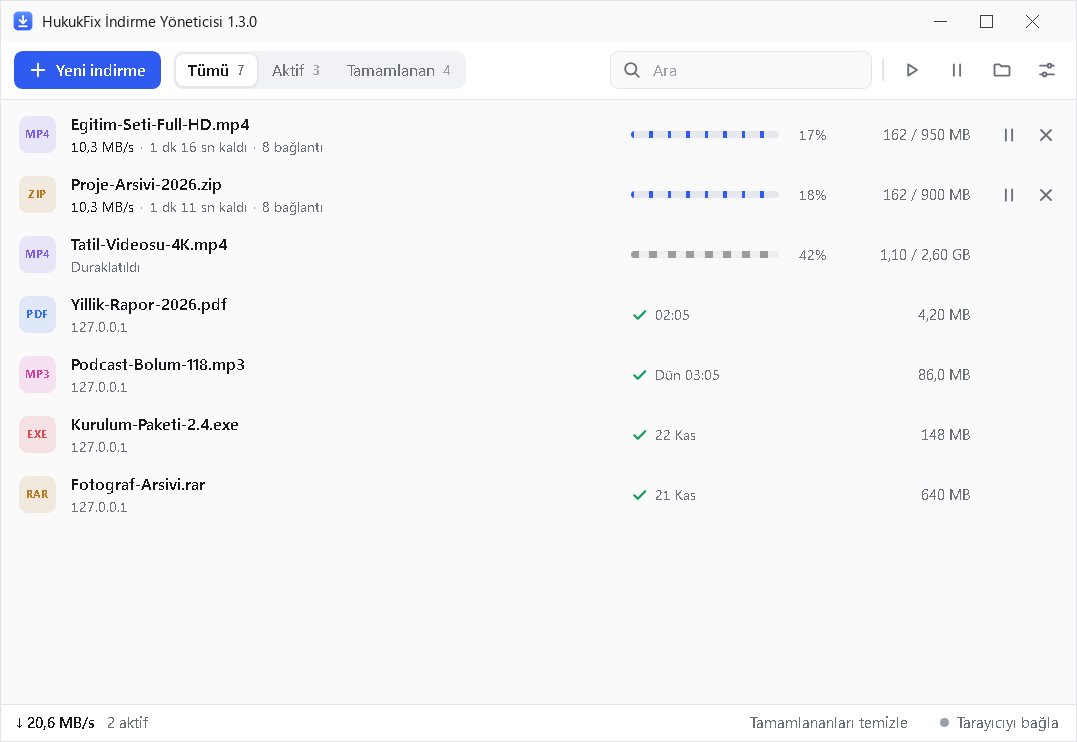
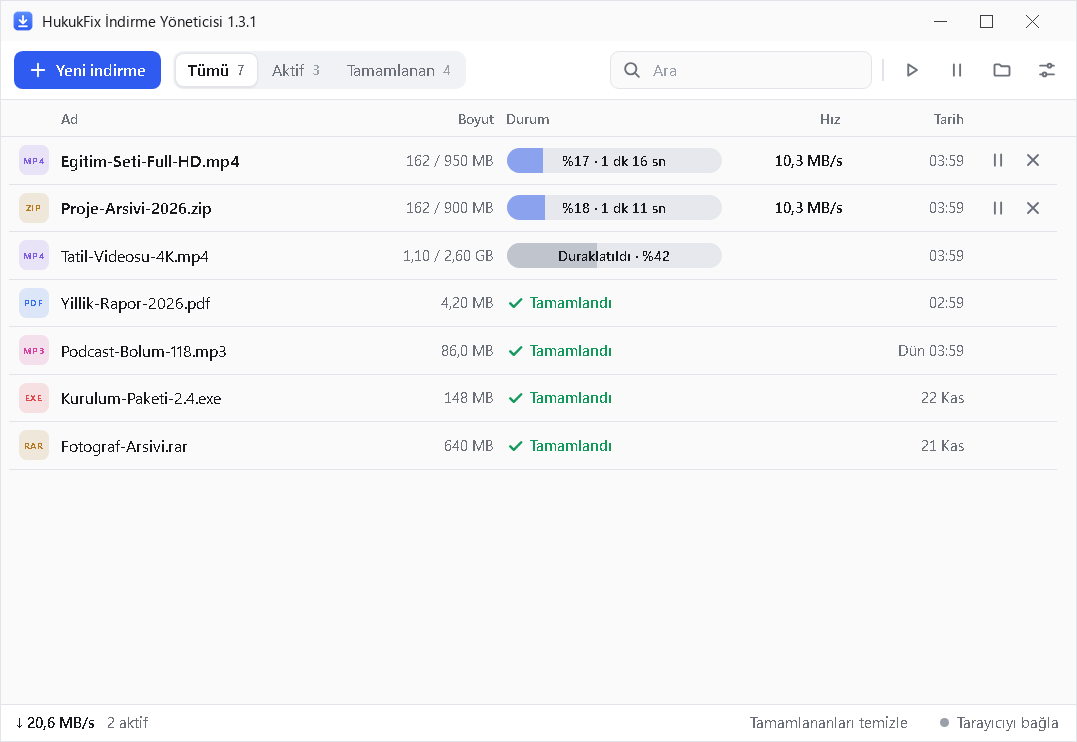
1.3.1: İndirme listesi başlıklı tablo
1.3.0'daki liste dağınık okunuyordu:
- dosya adı ile sağdaki sütunlar arasında koca bir boşluk vardı;
- başlık olmadığı için sayıların ne olduğu belli değildi;
- çok bağlantılı ilerleme çubuğu kesik çizgi gibi görünüyordu;
- biten indirmede yalnız "✓ 02:05" yazıyordu.

Liste şimdi IDM kullanıcılarının alışık olduğu biçimde, başlıklı bir tablo:
- Sütunlar: Ad · Boyut · Durum · Hız · Tarih (#thead). Her indirme 38 px'lik
  tek satır, satırlar ince çizgiyle ayrılıyor.
- Durum, yazıyı içinde taşıyan bir çubuk:
  - "%17 · 1 dk 16 sn";
  - "Duraklatıldı · %42";
  - "Bağlanıyor…" (belirsiz dolum).
  Yüzde Türkçede önde ("%17"), İngilizcede sonda.
- Çubuk göstermeyen durumlar:
  - biten: yeşil "✓ Tamamlandı";
  - bekleyen: "Sırada";
  - hata veren: kısa bir neden ("Erişim reddedildi", "Disk dolu"…), tam
    açıklama araç ipucunda.
- Hız yalnız inen satırda yazıyor. Tarih, bitende bitiş, ötekilerde eklenme
  tarihi. Adın araç ipucunda bağlantı ve tarih var.
- Dar pencerede (≤760 px) Tarih sütunu gizleniyor.
- README ekran görüntüsü yenilendi.

Uçtan uca test 149 adım. Yeni adımlar:
- sütun başlıkları;
- inen satırda Türkçe yüzde ve hız;
- biten satırda onaylı "Tamamlandı";
- boş listede başlığın gizlenmesi.

Eklenti uyarısı denetiminin bekleme süresi 8 sn'ye çıktı (ilk açılışta WebView
profili kurulurken sayfa geç yüklenebiliyor). Test betiğine tanı bilgisi ve
HFDM_E2E_SADECE=kurulum ile yalnız kurulum bölümü kipi eklendi.

diff --git a/frontend/dist/app.js b/frontend/dist/app.js
@@ -148,22 +148,15 @@ function createRow(id) {
   const el = document.createElement('div');
   el.className = 'row';
   el.dataset.id = id;
-  el.innerHTML = '<div class="tile"></div><div class="body"><span class="name"></span><div class="meta"></div></div>' +
-    '<div class="pcol"><div class="prog" hidden></div><span class="pct"></span><span class="st" hidden></span></div><div class="size"></div><div class="acts"></div>';
+  el.innerHTML = '<div class="tile"></div><span class="name"></span><span class="size r"></span>' +
+    '<div class="stat"><div class="pill" hidden><i class="fill"></i><span class="ptext"></span></div><span class="st" hidden></span></div>' +
+    '<span class="speed r"></span><span class="date r c-date"></span><div class="acts"></div>';
   return el;
 }
 
-function progressImage(s) {
-  if (!(s.total > 0)) return '';
-  const segs = s.segments && s.segments.length ? s.segments : [[0, s.total - 1, s.received]];
-  const stops = ['transparent 0'];
-  for (const [a, e, p] of segs) {
-    if (p <= a) continue;
-    const x0 = (a / s.total * 100).toFixed(3), x1 = (Math.min(p, e + 1) / s.total * 100).toFixed(3);
-    stops.push(`transparent ${x0}%`, `var(--accent) ${x0}%`, `var(--accent) ${x1}%`, `transparent ${x1}%`);
-  }
-  return stops.length > 1 ? `linear-gradient(90deg,${stops.join(',')})` : '';
-}
+// Percent the way each language writes it: "%17" in Turkish, "17%" in English.
+const pctText = (n) => (lang === 'tr' ? '%' + n : n + '%');
+const percent = (s) => (s.total > 0 && s.received > 0 ? Math.min(100, Math.floor(s.received / s.total * 100)) : -1);
 
 function actionsFor(s) {
   switch (s.state) {
@@ -174,27 +167,36 @@ function actionsFor(s) {
   }
 }
 
-// The line under the name says what is going on; sizes have their own column.
-function metaHTML(s) {
-  const sep = '<i>·</i>';
+// A short reason for the status column; the full sentence is in the tooltip.
+function errorShort(s) {
+  switch (s.errorCode) {
+    case 'http': return s.errorDetail === '403' ? t('sErr403') : s.errorDetail === '404' ? t('sErr404') : t('sErrHttp', { d: s.errorDetail });
+    case 'network': return t('sErrNet');
+    case 'dns': return t('sErrDns');
+    case 'disk_full': return t('sErrDiskFull');
+    case 'disk': return t('sErrDisk');
+    case 'html_page': return t('sErrHtml');
+    case 'changed': return t('sErrChanged');
+    case 'live': case 'drm': case 'hls': case 'hls_audio': return t('sErrStream');
+    default: return t('stFailed');
+  }
+}
+
+// The status column: a bar with its text inside while there is something to show, a word otherwise.
+// Returns [bar text or null, word class, word, tooltip].
+function statusOf(s) {
+  const p = percent(s), tip = [];
+  if (s.conns > 1) tip.push(t('conns', { n: s.conns }));
+  if (!s.resumable && s.state !== 'completed') tip.push(t('noResume'));
   switch (s.state) {
-    case 'completed':
-      return esc(s.host);
-    case 'failed':
-      return `<span class="s-err">${esc(errorText(s))}</span>`;
-    case 'paused':
-      return t('stPaused');
-    case 'queued':
-      return t('stQueued');
-    case 'connecting':
-      return [t('stConnecting'), esc(s.host)].join(sep);
-    default: {
-      const parts = [`<span class="s-speed">${fmtSpeed(s.speed)}</span>`];
-      if (s.eta >= 0) parts.push(t('left', { t: fmtEta(s.eta) }));
-      if (s.conns > 1) parts.push(t('conns', { n: s.conns }));
-      if (!s.resumable) parts.push(t('noResume'));
-      return parts.join(sep);
-    }
+    case 'completed': return { word: t('stDone'), cls: 'ok', icon: 'check' };
+    case 'failed': return { word: errorShort(s), cls: 'err', tip: errorText(s) };
+    case 'connecting': return { bar: t('stConnecting'), indet: true };
+    case 'paused': return { bar: p >= 0 ? `${t('stPaused')} · ${pctText(p)}` : t('stPaused'), p, tip: tip.join(' · ') };
+    case 'queued': return p >= 0 ? { bar: `${t('stQueued')} · ${pctText(p)}`, p } : { word: t('stQueued'), cls: 'wait' };
+    default:
+      if (p < 0) return { bar: t('stDownloading'), indet: true, tip: tip.join(' · ') };
+      return { bar: s.eta >= 0 ? `${pctText(p)} · ${fmtEta(s.eta)}` : pctText(p), p, tip: [s.eta >= 0 ? t('left', { t: fmtEta(s.eta) }) : '', ...tip].filter(Boolean).join(' · ') };
   }
 }
 
@@ -209,7 +211,7 @@ function sizeText(s) {
 }
 
 function updateRow(el, s) {
-  const sig = [s.state, s.fileName, s.received, s.total, Math.round(s.speed), s.eta, s.conns, s.errorCode, s.segments ? s.segments.length : 0].join('|');
+  const sig = [s.state, s.fileName, s.received, s.total, Math.round(s.speed), s.eta, s.conns, s.errorCode, s.finishedAt, lang].join('|');
   if (el._sig === sig) return;
   el._sig = sig;
   const live = s.state === 'downloading' || s.state === 'connecting';
@@ -223,24 +225,27 @@ function updateRow(el, s) {
   tile.textContent = m ? m[1].slice(0, 4).toLocaleUpperCase('en-US') : '···';
 
   const name = $('.name', el);
-  if (name.textContent !== s.fileName) { name.textContent = s.fileName; name.title = s.fileName; }
+  const when = fmtDate(s.state === 'completed' ? s.finishedAt : s.createdAt);
+  if (name.textContent !== s.fileName) name.textContent = s.fileName;
+  name.title = [s.fileName, s.url, when].filter(Boolean).join('\n');
 
-  const prog = $('.prog', el), st = $('.st', el);
-  const showBar = s.state !== 'completed' && s.state !== 'failed' || (s.state === 'failed' && s.received > 0 && s.total > 0);
-  prog.hidden = !showBar;
-  if (showBar) {
-    const indet = live && !(s.total > 0);
-    prog.classList.toggle('indet', indet);
-    prog.style.backgroundImage = indet ? '' : progressImage(s);
-  }
-  $('.pct', el).textContent = showBar && s.total > 0 && s.received > 0 ? Math.floor(s.received / s.total * 100) + '%' : '';
-  st.hidden = showBar;
-  if (!showBar) {
-    st.className = 'st ' + (s.state === 'completed' ? 'ok' : 'err');
-    st.innerHTML = s.state === 'completed' ? svg('check') + esc(fmtDate(s.finishedAt) || t('stDone')) : esc(t('stFailed'));
+  const st = statusOf(s), pill = $('.pill', el), word = $('.st', el);
+  pill.hidden = st.bar == null;
+  word.hidden = st.bar != null;
+  $('.stat', el).title = st.tip || '';
+  if (st.bar != null) {
+    pill.classList.toggle('indet', !!st.indet);
+    $('.fill', pill).style.width = st.indet ? '' : Math.max(0, st.p) + '%';
+    $('.ptext', pill).textContent = st.bar;
+    word.textContent = '';
+  } else {
+    $('.ptext', pill).textContent = '';
+    word.className = 'st ' + st.cls;
+    word.innerHTML = (st.icon ? svg(st.icon) : '') + esc(st.word);
   }
   $('.size', el).textContent = sizeText(s);
-  $('.meta', el).innerHTML = metaHTML(s);
+  $('.speed', el).textContent = s.state === 'downloading' && s.speed > 0 ? fmtSpeed(s.speed) : '';
+  $('.date', el).textContent = when;
 
   const acts = $('.acts', el);
   if (acts.dataset.for !== s.state + lang) {
@@ -284,6 +289,7 @@ function render() {
 
   const empty = ids.length === 0;
   list.hidden = empty;
+  $('#thead').hidden = empty;
   $('#empty').hidden = !empty;
   if (empty) {
     const kind = query ? 'emptySearch' : filter === 'active' && order.length ? 'emptyActive' : filter === 'done' && order.length ? 'emptyDone' : 'empty';

diff --git a/frontend/dist/style.css b/frontend/dist/style.css
@@ -121,46 +121,54 @@ button, input, select, textarea { font: inherit; color: inherit; }
 .update-bar .btn.primary { height: 28px; }
 .update-bar .btn.icon { width: 28px; height: 28px; }
 
-/* ---------- list: every row the same height; name on the left, state and size in fixed columns ---------- */
-#list { flex: 1; overflow-y: auto; padding: 4px 6px 8px; outline: 0; }
+/* ---------- list: a table with column headers. One line per download:
+   [type] Name · Size · Status (a bar that says "%17 · 1 min 16 s" inside) · Speed · Date · [actions] ---------- */
+.thead, #list { --cols: 24px minmax(0, 1fr) 96px 172px 86px 88px 58px; }
+.thead {
+  flex: none; display: grid; grid-template-columns: var(--cols); column-gap: 10px; align-items: center;
+  height: 30px; padding: 0 22px 0 14px; border-bottom: 1px solid var(--border);
+  font-size: 11.5px; font-weight: 600; color: var(--muted);
+}
+.thead .r, .row .r { text-align: right; }
+#list { flex: 1; overflow-y: auto; scrollbar-gutter: stable; padding: 0 6px 8px; outline: 0; }
 .row {
-  display: grid; grid-template-columns: 30px minmax(0, 1fr) 156px 104px 62px; align-items: center; column-gap: 12px;
-  height: 48px; padding: 0 4px 0 8px; border-radius: 8px;
+  display: grid; grid-template-columns: var(--cols); column-gap: 10px; align-items: center;
+  height: 38px; padding: 0 6px 0 8px; border-bottom: 1px solid var(--border);
 }
 .row:hover, .row.menu-open { background: var(--hover); }
 .row.flash { animation: flash 1.4s ease-out; }
 @keyframes flash { from { background: var(--accent-soft); } }
 .tile {
-  width: 30px; height: 30px; border-radius: 7px;
+  width: 24px; height: 24px; border-radius: 6px;
   display: grid; place-items: center;
-  font-size: 8.5px; font-weight: 700; letter-spacing: .02em;
-  color: var(--c); background: color-mix(in srgb, var(--c) 13%, transparent);
+  font-size: 7.5px; font-weight: 700; letter-spacing: .01em;
+  color: var(--c); background: color-mix(in srgb, var(--c) 14%, transparent);
 }
 .tile[data-c="video"] { --c: var(--c-video); } .tile[data-c="audio"] { --c: var(--c-audio); }
 .tile[data-c="image"] { --c: var(--c-image); } .tile[data-c="document"] { --c: var(--c-document); }
 .tile[data-c="archive"] { --c: var(--c-archive); } .tile[data-c="program"] { --c: var(--c-program); }
 .tile[data-c="other"] { --c: var(--c-other); }
-.row .body { min-width: 0; }
-.row .name { display: block; overflow: hidden; text-overflow: ellipsis; white-space: nowrap; font-weight: 500; }
-.row .meta { margin-top: 1px; font-size: 11.5px; color: var(--muted); overflow: hidden; text-overflow: ellipsis; white-space: nowrap; font-variant-numeric: tabular-nums; }
-.row .meta .s-err { color: var(--danger); }
-.row .meta .s-speed { color: var(--text); }
-.row .meta i { font-style: normal; color: var(--faint); margin: 0 5px; }
-.row .pcol { display: flex; align-items: center; gap: 8px; min-width: 0; font-size: 11.5px; color: var(--muted); font-variant-numeric: tabular-nums; }
-.prog { flex: 1; height: 5px; border-radius: 3px; background-color: var(--track); background-repeat: no-repeat; overflow: hidden; }
-.row[data-state="paused"] .prog, .row[data-state="queued"] .prog, .row[data-state="failed"] .prog { filter: grayscale(1) opacity(.6); }
-.prog.indet { background-image: linear-gradient(90deg, transparent, var(--accent), transparent); background-size: 40% 100%; animation: indet 1.2s linear infinite; }
+.row .name { min-width: 0; overflow: hidden; text-overflow: ellipsis; white-space: nowrap; }
+.row.live .name { font-weight: 600; }
+.row .size, .row .speed, .row .date { font-size: 12px; white-space: nowrap; overflow: hidden; text-overflow: ellipsis; font-variant-numeric: tabular-nums; }
+.row .size, .row .date { color: var(--muted); }
+.row .speed { color: var(--text); font-weight: 600; }
+.row .stat { min-width: 0; }
+/* status bar: the text sits inside the bar, so the row stays one line */
+.pill { position: relative; height: 20px; border-radius: 10px; background: var(--track); overflow: hidden; }
+.pill .fill { position: absolute; top: 0; bottom: 0; left: 0; width: 0; background: color-mix(in srgb, var(--accent) 50%, var(--track)); transition: width .5s linear; }
+.row[data-state="paused"] .pill .fill, .row[data-state="queued"] .pill .fill, .row[data-state="failed"] .pill .fill { background: color-mix(in srgb, var(--faint) 50%, var(--track)); }
+.pill.indet .fill { width: 100%; background: linear-gradient(90deg, transparent, color-mix(in srgb, var(--accent) 50%, var(--track)), transparent) no-repeat; background-size: 40% 100%; animation: indet 1.2s linear infinite; transition: none; }
 @keyframes indet { from { background-position: -70% 0; } to { background-position: 170% 0; } }
-.row .pct { flex: none; width: 30px; text-align: right; }
-.row .pct:empty { display: none; }
-.row .st { display: inline-flex; align-items: center; gap: 5px; min-width: 0; white-space: nowrap; overflow: hidden; text-overflow: ellipsis; }
-.row .st svg { width: 14px; height: 14px; stroke-width: 2; }
-.row .st.ok svg { color: var(--ok); }
-.row .st.err { color: var(--danger); }
-.row .size { text-align: right; font-size: 12px; color: var(--muted); white-space: nowrap; overflow: hidden; text-overflow: ellipsis; font-variant-numeric: tabular-nums; }
+.pill .ptext { position: relative; display: block; padding: 0 9px; font-size: 11.5px; line-height: 20px; font-weight: 600; color: var(--text); text-align: center; white-space: nowrap; overflow: hidden; text-overflow: ellipsis; font-variant-numeric: tabular-nums; }
+.row .st { display: flex; align-items: center; gap: 5px; min-width: 0; font-size: 12px; white-space: nowrap; overflow: hidden; text-overflow: ellipsis; }
+.row .st svg { width: 14px; height: 14px; stroke-width: 2.2; }
+.row .st.ok { color: var(--ok); font-weight: 600; }
+.row .st.err { color: var(--danger); font-weight: 600; }
+.row .st.wait { color: var(--muted); }
 .row .acts { display: flex; justify-content: flex-end; gap: 2px; opacity: 0; transition: opacity .1s; }
 .row:hover .acts, .row.menu-open .acts, .row .acts:focus-within, .row.live .acts { opacity: 1; }
-.row .acts .btn.icon { width: 28px; height: 28px; }
+.row .acts .btn.icon { width: 26px; height: 26px; }
 .more { display: block; margin: 8px auto; }
 
 /* ---------- empty ---------- */
@@ -274,7 +282,9 @@ textarea:focus, input[type="number"]:focus, select:focus { border-color: var(--a
 @media (max-width: 760px) {
   #btn-add span { display: none; }
   #btn-add { width: 30px; padding: 0; }
-  .row { grid-template-columns: 30px minmax(0, 1fr) 112px 92px 62px; column-gap: 10px; }
+  /* no date column: the date stays in the name's tooltip */
+  .thead, #list { --cols: 24px minmax(0, 1fr) 84px 150px 78px 54px; }
+  .c-date { display: none; }
 }
 @media (max-width: 660px) {
   .toolbar .seg button { padding: 0 8px; }

diff --git a/frontend/dist/i18n.js b/frontend/dist/i18n.js
@@ -38,7 +38,11 @@ const STRINGS = {
     hintTitle: 'Tarayıcı eklentisini ekleyin', hintText: 'Tarayıcıda başlayan indirmeleri HukukFix\'e aktarmak için eklenti gerekir. Kurulumu bir dakika sürer.',
     hintGo: 'Nasıl eklenir?', hintLater: 'Sonra',
     dropHint: 'İndirmek için bırakın',
-    stQueued: 'Sırada', stConnecting: 'Bağlanıyor…', stPaused: 'Duraklatıldı', stFailed: 'Başarısız',
+    stQueued: 'Sırada', stConnecting: 'Bağlanıyor…', stPaused: 'Duraklatıldı', stFailed: 'Başarısız', stDownloading: 'İndiriliyor…',
+    colName: 'Ad', colSize: 'Boyut', colStatus: 'Durum', colSpeed: 'Hız', colDate: 'Tarih',
+    sErrHttp: 'Sunucu hatası ({d})', sErr403: 'Erişim reddedildi', sErr404: 'Bulunamadı (404)', sErrNet: 'Bağlantı kurulamadı',
+    sErrDns: 'Sunucu bulunamadı', sErrDiskFull: 'Disk dolu', sErrDisk: 'Dosya yazılamadı', sErrHtml: 'Dosya yerine sayfa geldi',
+    sErrChanged: 'Dosya değişti', sErrStream: 'İndirilemeyen akış',
     conns: '{n} bağlantı', left: '{t} kaldı', of: '{a} / {b}', noResume: 'sürdürülemez',
     active: '{n} aktif', idle: 'Boşta', limitChip: 'Sınır {v}',
     aPause: 'Duraklat', aResume: 'Sürdür', aRetry: 'Yeniden dene', aCancel: 'İptal et', aOpen: 'Aç', aFolder: 'Klasörde göster',
@@ -92,7 +96,11 @@ const STRINGS = {
     hintTitle: 'Add the browser extension', hintText: 'The extension hands downloads started in your browser over to HukukFix. Setting it up takes a minute.',
     hintGo: 'Show me how', hintLater: 'Later',
     dropHint: 'Drop to download',
-    stQueued: 'Queued', stConnecting: 'Connecting…', stPaused: 'Paused', stFailed: 'Failed',
+    stQueued: 'Queued', stConnecting: 'Connecting…', stPaused: 'Paused', stFailed: 'Failed', stDownloading: 'Downloading…',
+    colName: 'Name', colSize: 'Size', colStatus: 'Status', colSpeed: 'Speed', colDate: 'Date',
+    sErrHttp: 'Server error ({d})', sErr403: 'Access denied', sErr404: 'Not found (404)', sErrNet: 'Could not connect',
+    sErrDns: 'Server not found', sErrDiskFull: 'Disk full', sErrDisk: 'Could not write', sErrHtml: 'Got a web page',
+    sErrChanged: 'File changed', sErrStream: 'Stream not supported',
     conns: '{n} connections', left: '{t} left', of: '{a} / {b}', noResume: 'not resumable',
     active: '{n} active', idle: 'Idle', limitChip: 'Limit {v}',
     aPause: 'Pause', aResume: 'Resume', aRetry: 'Retry', aCancel: 'Cancel', aOpen: 'Open', aFolder: 'Show in folder',

diff --git a/frontend/dist/index.html b/frontend/dist/index.html
@@ -39,6 +39,10 @@
   <button id="update-close" class="btn icon" data-tt="upLater"><svg viewBox="0 0 16 16"><path d="m4 4 8 8M12 4l-8 8"/></svg></button>
 </div>
 
+<div id="thead" class="thead" role="row">
+  <span></span><span data-t="colName"></span><span class="r" data-t="colSize"></span><span data-t="colStatus"></span>
+  <span class="r" data-t="colSpeed"></span><span class="r c-date" data-t="colDate"></span><span></span>
+</div>
 <main id="list" tabindex="-1"></main>
 
 <section id="empty" class="empty" hidden>

diff --git a/internal/shared/shared.go b/internal/shared/shared.go
@@ -26,7 +26,7 @@ const (
 
 // Version is a variable only so the test build can pose as a newer release
 // (-ldflags "-X hukukfixdm/internal/shared.Version=9.9.9"). Keep wails.json productVersion in step.
-var Version = "1.3.0"
+var Version = "1.3.1"
 
 // DataDir is where settings, the download list and the bridge file live.
 func DataDir() string {

diff --git a/README.md b/README.md
@@ -4,7 +4,7 @@ Windows için hızlı, sade, **ücretsiz ve açık kaynak** bir indirme yönetic
 
 > **Claude Fable 5.2 ile geliştirildi.** Bu programın kodu Anthropic'in Claude Fable 5.2 modeliyle yazıldı.
 
-<p align="center"><img src="docs/ekran-goruntusu.png" width="760" alt="HukukFix İndirme Yöneticisi 1.3.0 ana penceresi: iki indirme sekiz bağlantıyla sürüyor, biri duraklatılmış, dördü tamamlanmış"></p>
+<p align="center"><img src="docs/ekran-goruntusu.png" width="760" alt="HukukFix İndirme Yöneticisi 1.3.1 ana penceresi: Ad, Boyut, Durum, Hız ve Tarih sütunlu indirme listesi"></p>
 
 ## İndir
 
@@ -94,6 +94,7 @@ Uçtan uca test, programın test sürümünü (`-tags e2e`, yalnız testte derle
 
 ## Sürüm notları
 
+- **1.3.1** — İndirme listesi başlıklı bir tabloya dönüştü (Ad, Boyut, Durum, Hız, Tarih); her indirme tek satırda. Durum sütunu, yüzdeyi ve kalan süreyi içinde yazan bir ilerleme çubuğu ("%17 · 1 dk 16 sn"). Biten indirmeler "✓ Tamamlandı" diye, hata verenler kısa bir nedenle görünüyor; tam açıklama fareyle üzerine gelince çıkıyor. Dar pencerede Tarih sütunu gizleniyor. Uçtan uca test 149 adım.
 - **1.3.0** — Arayüz sadeleşti ve küçüldü. Pencere 860×560 açılıyor; sekmeler araç çubuğuna taşındı. Her indirme aynı boyda tek satır: solda ad ve durum, sağda kısa ilerleme çubuğu, yüzde ve boyut sütunları; biten indirmede yeşil onay ve tarih. Ayarlar dört sayfaya ayrıldı (Genel, Hız, Tarayıcı, Hakkında). Türkçe arayüzde dosya türü rozetleri "ZİP" yerine "ZIP" yazıyor. Uçtan uca test 146 adım.
 - **1.2.2** — Güncelleme denetimi açılıştan 45 saniye yerine 10 saniye sonra yapılıyor. İnternete ulaşılamadığı ya da indirme yarıda kaldığı için başarısız olan denetim 6 saat yerine 10 dakika sonra yineleniyor. Uçtan uca test 138 adım.
 - **1.2.1** — Pencere başlığında sürüm numarası ("HukukFix İndirme Yöneticisi 1.2.1"). Tarayıcı eklentisi henüz hiç bağlanmamışsa sağ altta eklentinin nasıl ekleneceğini gösteren küçük bir uyarı çıkar; eklenti bir kez bağlanınca bir daha gösterilmez. "Güncellemeleri denetle" sonucunu açıkça gösteriyor: denetlerken dönen bir gösterge, güncelse yeşil onay işareti ve "En güncel sürümü kullanıyorsunuz" bildirimi, denetlenemezse nedeni. Ayarlar'ın altındaki sürüm satırı ayraçlarla düzenlendi. Uçtan uca test açık bir HukukFix varken de çalışıyor; 137 adım.
